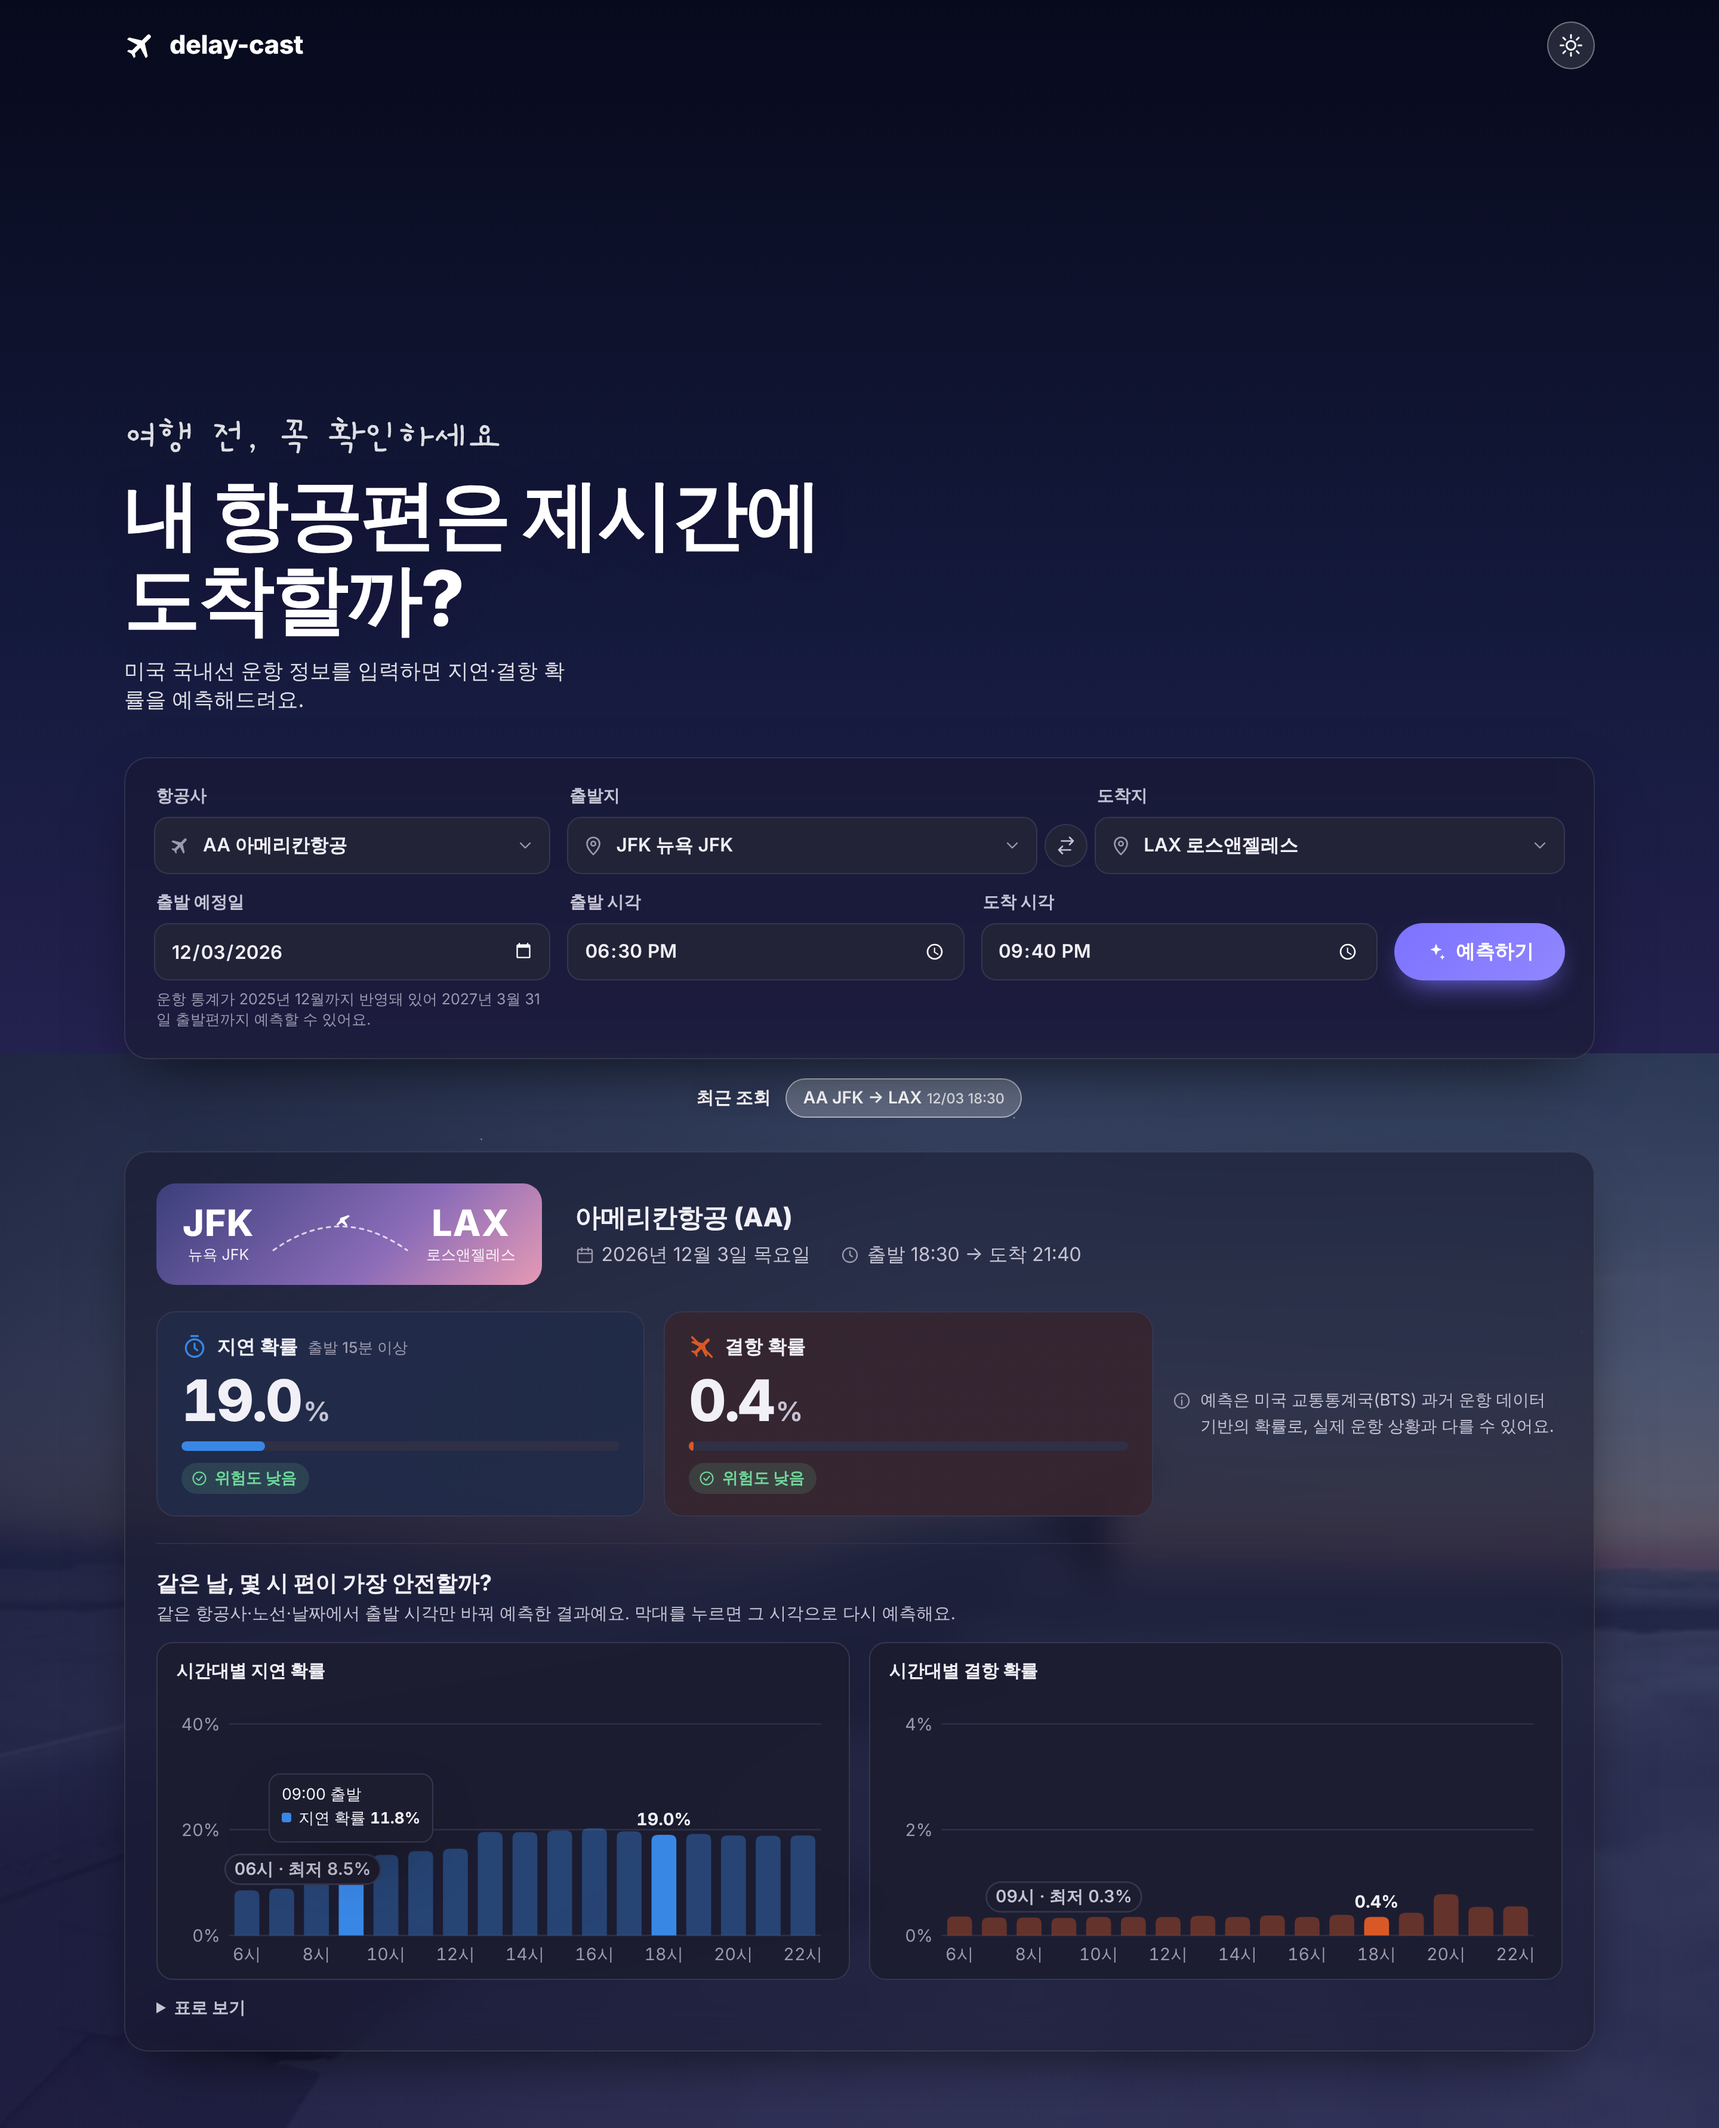
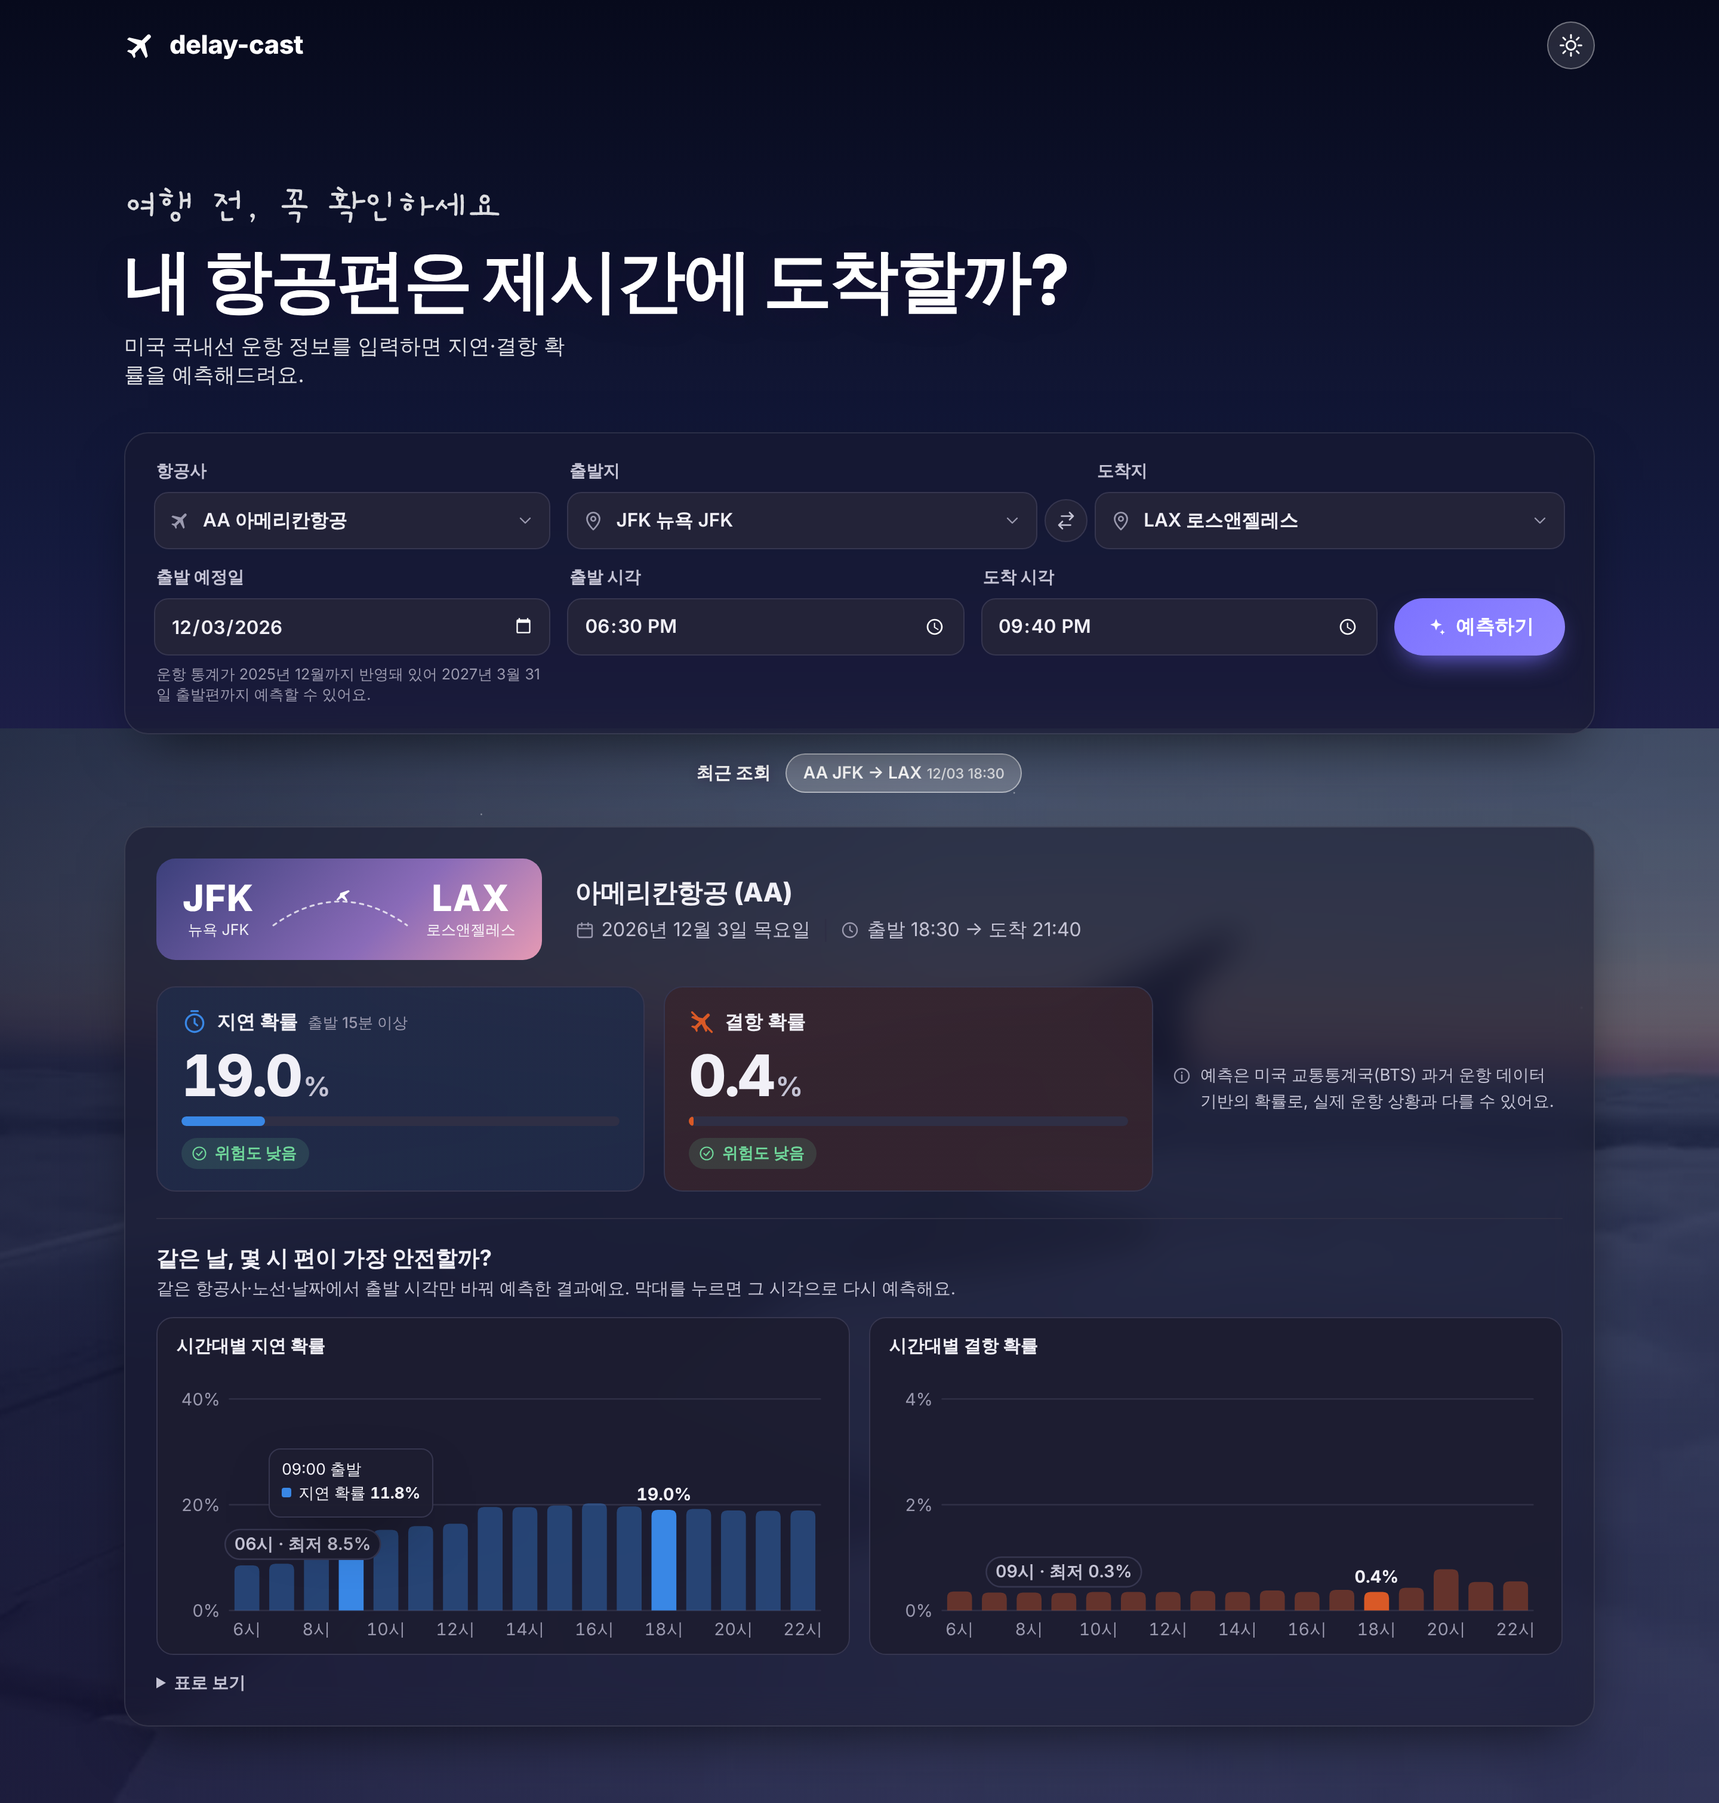
Lift the first screen so it fits without scrolling and pickers open down
The hero took 58% of the viewport, which pushed the form low: the page
was 50-130 px taller than the window on first load, and the date and
time fields had ~80 px below them, so the browser opened their
pickers upward while the dropdowns opened downward.

- --hero-h sizes the hero from the viewport, leaving ~350 px under the
  lowest date/time field for any picker to open downward.
- The video moves up by the height the hero lost (--hero-shift), so
  the wing still sits beside the headline.
- The headline is one line from 900 px wide. On screens under 820 px
  tall the script line and subtitle fold away; under 700 px the
  top bar, headline and gaps get tighter.
- Between 641 and 1080 px wide, date, departure and arrival share one
  row so the form is one row shorter.

At 1280x720, 1366x657, 1440x900, 1536x750, 1536x864, 1920x950,
1920x1080 and 1000x800 the first screen has no scrollbar, the lowest
date/time field has 332-352 px below it, and all dropdowns open down.

Claude-Session: https://claude.ai/code/session_016JjTxk6fsWy6dGfjNn2Z3X

diff --git a/app/static/style.css b/app/static/style.css
@@ -40,6 +40,11 @@
 
   --shadow: 0 20px 50px -20px rgba(40, 20, 80, 0.45);
   --radius: 20px;
+
+  /* 첫 화면 높이 배분: 날짜·시간 칸 아래에 선택창(드롭다운, 브라우저 날짜 선택창 약 320px)이 아래로 펼쳐질 자리를 남기고
+     나머지를 히어로에 준다. 히어로가 줄어든 만큼 영상을 위로 올려 같은 장면(날개)이 제목 근처에 보이게 한다 */
+  --hero-h: clamp(0px, calc(100vh - 650px), 520px);
+  --hero-shift: calc(min(58vh, 560px) - var(--hero-h));
 }
 
 @media (prefers-color-scheme: dark) {
@@ -92,7 +97,10 @@ button, input { font: inherit; color: inherit; }
    스크롤하면 --scrolled(0~1, app.js)만큼 하늘색 덮개(.sky-veil)가 짙어져 결과 카드가 잘 읽힌다.
    다크 모드는 영상을 어둡게 하고 별을 띄운다 */
 .sky { position: fixed; inset: 0; pointer-events: none; overflow: hidden; z-index: 0; }
-.sky-video { position: absolute; inset: 0; width: 100%; height: 100%; object-fit: cover; object-position: center 30%; }
+.sky-video {
+  position: absolute; left: 0; right: 0; top: calc(-1 * var(--hero-shift)); width: 100%; height: calc(100% + var(--hero-shift));
+  object-fit: cover; object-position: center 30%;
+}
 .sky::before, .sky::after, .sky-veil { content: ""; position: absolute; inset: 0; z-index: 1; }
 .sky::before {
   background:
@@ -143,12 +151,29 @@ main { position: relative; z-index: 1; max-width: 1280px; margin: 0 auto; paddin
 
 /* 첫 화면의 위쪽 대부분을 영상에 내주고, 제목은 그 아래쪽에 왼쪽 정렬로 둔다 */
 .hero {
-  min-height: min(58vh, 560px); margin: 0 0 28px; padding-bottom: 8px; color: var(--ink-on-sky);
+  min-height: var(--hero-h); margin: 0 0 28px; padding-bottom: 8px; color: var(--ink-on-sky);
   display: flex; flex-direction: column; justify-content: flex-end;
 }
 .hero-script { font-family: "Gaegu", cursive; font-size: clamp(1.6rem, 3.4vw, 2.2rem); margin: 0; color: var(--ink-on-sky-2); }
 .hero h1 { font-size: clamp(2.2rem, 5.6vw, 4rem); max-width: 14ch; line-height: 1.12; font-weight: 800; letter-spacing: -0.03em; margin: 6px 0 12px; text-shadow: 0 2px 24px rgba(40, 10, 60, .35); }
 .hero-sub { margin: 0; max-width: 34ch; color: var(--ink-on-sky-2); font-size: clamp(.95rem, 1.6vw, 1.1rem); }
+/* 넓은 화면에서는 제목을 한 줄로 써서 폼을 위로 올린다 */
+@media (min-width: 900px) {
+  .hero h1 { max-width: none; font-size: clamp(2.2rem, 4.2vw, 3.6rem); }
+}
+/* 중간 폭에서는 폼이 4줄로 쌓여 길어지므로 히어로를 그만큼 더 줄인다 */
+@media (min-width: 641px) and (max-width: 1080px) {
+  :root { --hero-h: clamp(0px, calc(100vh - 830px), 520px); }
+}
+/* 낮은 화면에서는 손글씨 문구와 부제를 접고 여백을 줄여, 선택창이 아래로 펼쳐질 자리를 만든다 */
+@media (min-width: 641px) and (max-height: 820px) {
+  .hero-script, .hero-sub { display: none; }
+}
+@media (min-width: 641px) and (max-height: 700px) {
+  .topbar { padding-top: 10px; padding-bottom: 10px; }
+  .hero { margin-bottom: 16px; }
+  .hero h1 { font-size: 2.4rem; margin: 0 0 4px; }
+}
 
 .glass {
   background: color-mix(in srgb, var(--glass) 76%, transparent);
@@ -344,9 +369,10 @@ main { position: relative; z-index: 1; max-width: 1280px; margin: 0 auto; paddin
 
 /* ───────── Responsive ───────── */
 @media (max-width: 1080px) {
-  .search { grid-template-columns: minmax(0, 1fr) minmax(0, 1fr); }
+  /* 날짜·출발 시각·도착 시각을 한 줄에 둬서 폼을 한 줄 줄인다 (선택창이 아래로 펼쳐질 자리) */
+  .search { grid-template-columns: repeat(3, minmax(0, 1fr)); }
   .route { grid-column: 1 / -1; grid-row: 2; }
-  .f-airline, .f-date { grid-column: 1 / -1; }
+  .f-airline { grid-column: 1 / -1; }
   .primary { grid-column: 1 / -1; margin-top: 4px; width: 100%; height: 52px; }
   .metrics { grid-template-columns: 1fr 1fr; }
   .note { grid-column: 1 / -1; }
@@ -354,11 +380,13 @@ main { position: relative; z-index: 1; max-width: 1280px; margin: 0 auto; paddin
 @media (max-width: 640px) {
   .topbar { padding: 14px 16px; }
   main { padding: 0 16px 48px; }
+  :root { --hero-shift: 0px; }
   .hero { min-height: 52vh; }
   /* 좁은 화면에서는 날개를 제목 오른쪽 뒤로 비키고, 제목 뒤에 아래쪽 덮개를 깐다 */
   .sky-video { object-position: 70% 30%; }
   .sky::before { background: linear-gradient(180deg, transparent 20%, color-mix(in srgb, var(--sky-1) 62%, transparent) 62%, transparent 95%); }
-  .search { padding: 18px 16px; gap: 12px; }
+  .search { padding: 18px 16px; gap: 12px; grid-template-columns: minmax(0, 1fr) minmax(0, 1fr); }
+  .f-date { grid-column: 1 / -1; }
   .route { grid-template-columns: 1fr; }
   .swap { margin: -4px auto; transform: rotate(90deg); }
   .swap:hover { transform: rotate(270deg); }
